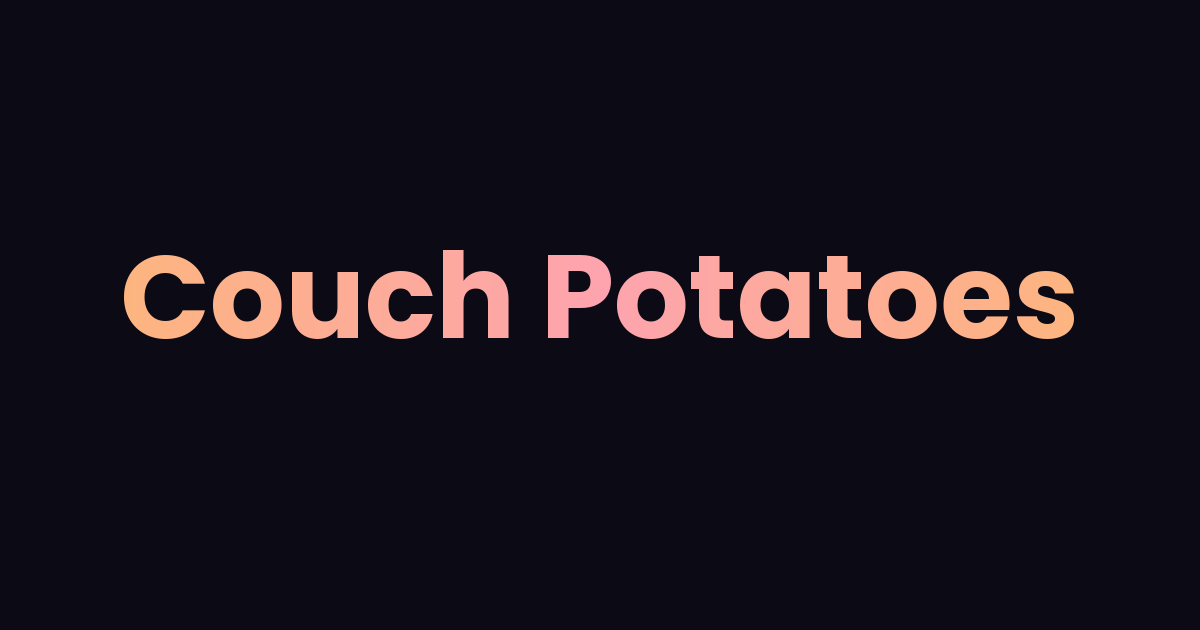
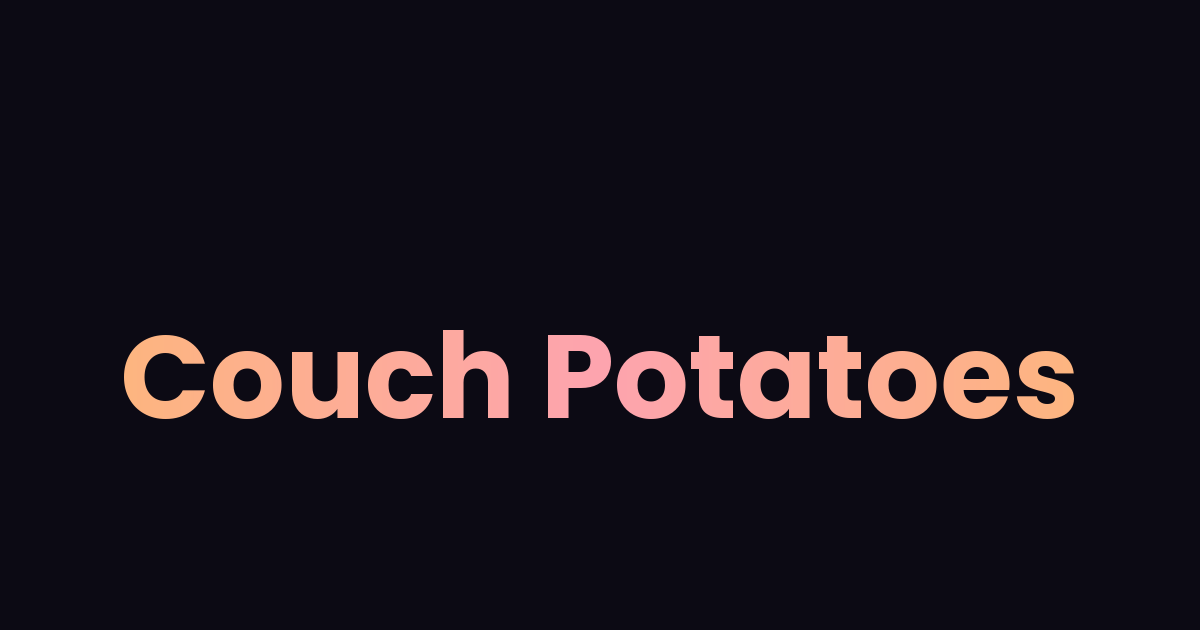
OG share card: lower wordmark + new subtitle copy
- Regenerate og-image.png with the wordmark pushed ~80px lower in
  the 1200x630 canvas. Now sits below true center so it feels more
  grounded against the title text that iMessage / Slack / etc.
  render beneath the image.
- Title metadata (<title>, og:title, twitter:title, og:image:alt)
  changed from "Couch Potatoes — what to watch tonight, decided" to
  "Couch Potatoes — decide what to watch, together". iOS
  LinkPresentation strips the "Couch Potatoes — " prefix when
  og:site_name matches, so the visible subtitle on iMessage becomes
  just "decide what to watch, together" (30 chars → one line).

Changed region(s): [[0.0925, 0.3921, 0.8942, 0.6635]]

diff --git a/index.html b/index.html
@@ -3,7 +3,7 @@
 <head>
   <meta charset="UTF-8" />
   <meta name="viewport" content="width=device-width, initial-scale=1.0, maximum-scale=1.0, user-scalable=no" />
-  <title>Couch Potatoes — what to watch tonight, decided</title>
+  <title>Couch Potatoes — decide what to watch, together</title>
   <meta name="description" content="A movie + TV picker for couples (or solo viewers) who can't decide what to watch. Build a quick taste profile and get recommendations you'll both actually want." />
 
   <!-- Open Graph / share preview metadata. Used by iMessage, WhatsApp, Slack,
@@ -15,15 +15,15 @@
        to production so social canonicalization still points there. -->
   <meta property="og:type" content="website" />
   <meta property="og:site_name" content="Couch Potatoes" />
-  <meta property="og:title" content="Couch Potatoes — what to watch tonight, decided" />
+  <meta property="og:title" content="Couch Potatoes — decide what to watch, together" />
   <meta property="og:description" content="A movie + TV picker for couples who can't decide. Build a taste profile, get recommendations you'll both actually want." />
   <meta property="og:url" content="https://couchpotatoes.co/" />
   <meta property="og:image" content="/og-image.png" />
   <meta property="og:image:width" content="1200" />
   <meta property="og:image:height" content="630" />
-  <meta property="og:image:alt" content="Couch Potatoes — what to watch tonight, decided" />
+  <meta property="og:image:alt" content="Couch Potatoes — decide what to watch, together" />
   <meta name="twitter:card" content="summary_large_image" />
-  <meta name="twitter:title" content="Couch Potatoes — what to watch tonight, decided" />
+  <meta name="twitter:title" content="Couch Potatoes — decide what to watch, together" />
   <meta name="twitter:description" content="A movie + TV picker for couples who can't decide. Build a taste profile, get recommendations you'll both actually want." />
   <meta name="twitter:image" content="/og-image.png" />
 
